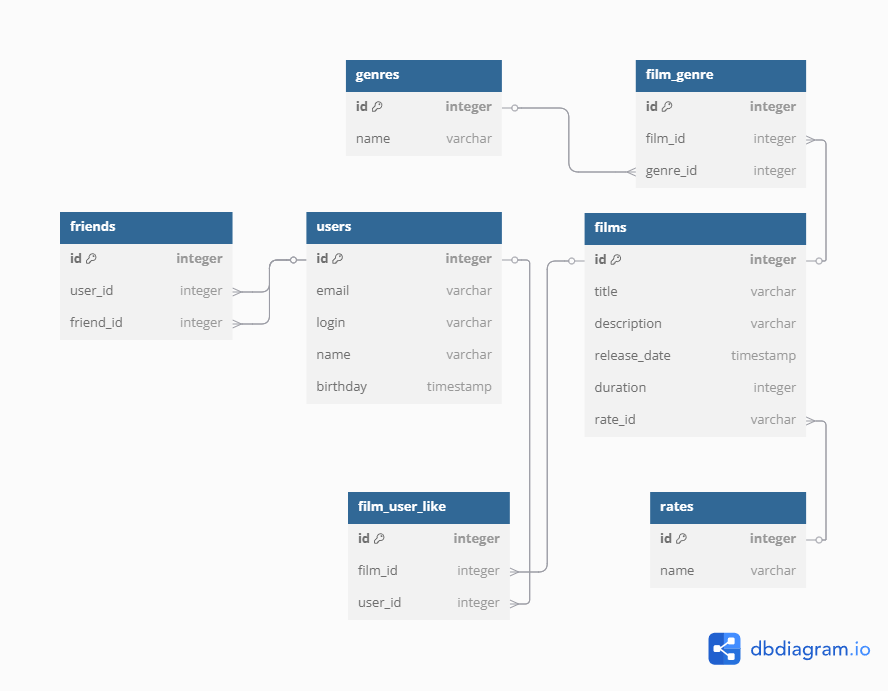
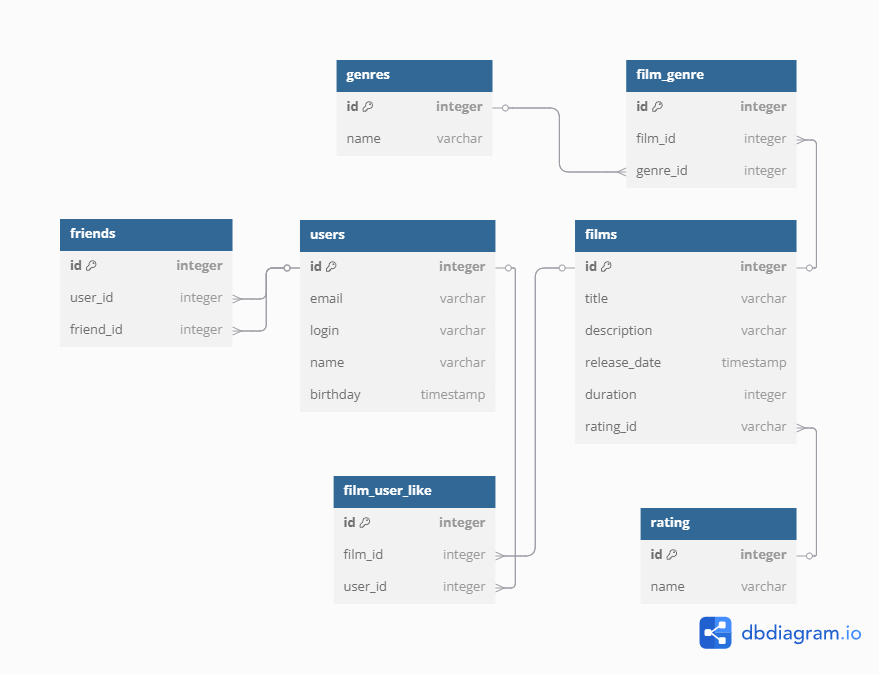
Fix SQL table

diff --git a/src/main/java/ru/yandex/practicum/filmorate/model/Rating.java b/src/main/java/ru/yandex/practicum/filmorate/model/Rating.java
@@ -1,6 +1,6 @@
 package ru.yandex.practicum.filmorate.model;
 
-public enum Rate {
+public enum Rating {
     G,     //у фильма нет возрастных ограничений
     PG,    //детям рекомендуется смотреть фильм с родителями
     PG13, //детям до 13 лет просмотр не желателен

diff --git a/src/main/java/ru/yandex/practicum/filmorate/model/Film.java b/src/main/java/ru/yandex/practicum/filmorate/model/Film.java
@@ -24,6 +24,6 @@ public class Film {
     @Positive(message = "Продолжительность фильма должна быть положительным числом")
     int duration;
     Set<Long> likes = new HashSet<>();
-    Rate rate;
+    Rating rating;
     Set<Genre> genre = new HashSet<>();
 }
